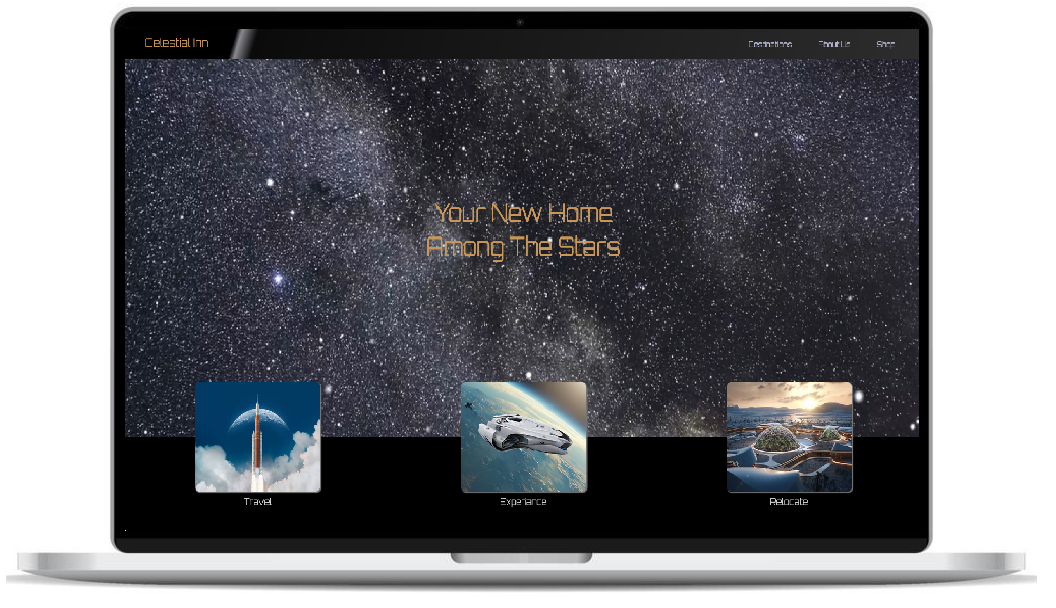
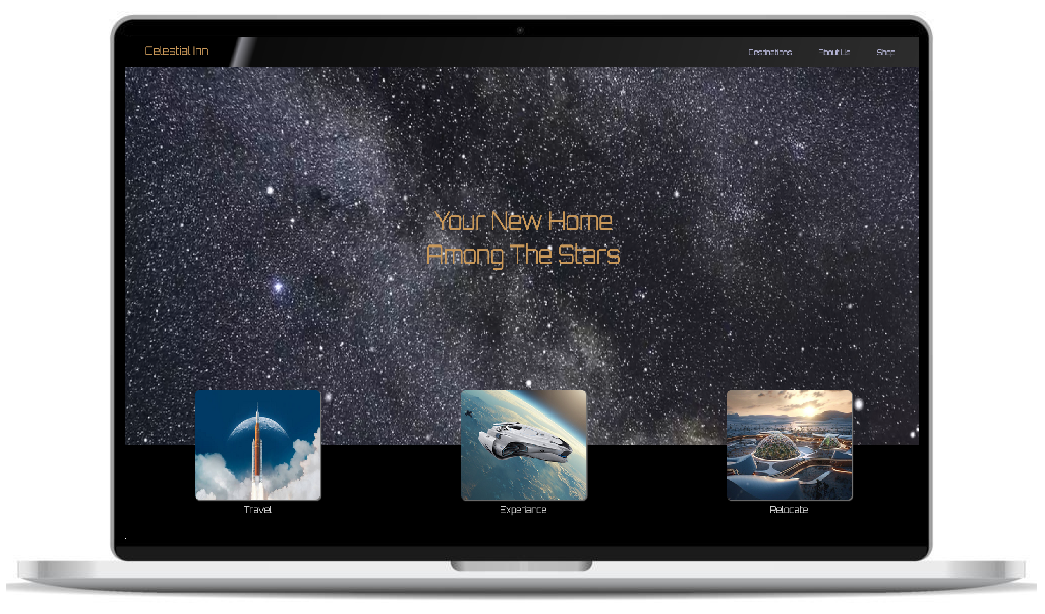
project card looks better

Changed region(s): [[0.0, 0.0, 1.0, 1.0]]

diff --git a/src/components/projectCard.css b/src/components/projectCard.css
@@ -1,11 +1,11 @@
 .app__projectCard {
   width: 400px;
-  height: 500px;
-  background-color: rgb(202, 202, 202);
+  height: 550px;
+  background-color: rgb(255, 255, 255);
   position: relative;
   border: none;
   border-radius: 7px;
-  box-shadow: 0px 0px 10px 3px rgb(95, 95, 95);
+  /* box-shadow: 0px 0px 10px 3px rgb(95, 95, 95); */
   display: flex;
   justify-content: space-between;
   text-align: center;
@@ -13,17 +13,17 @@
   color: rgb(36, 36, 36);
   transition: 0.3s ease-in-out;
 }
-.app__projectCard-constent {
+.app__projectCard:hover {
+  box-shadow: 0px 0px 10px 3px rgb(95, 95, 95);
+  transition: 0.3s ease-in-out;
+}
+.app__projectCard-content {
   display: flex;
   flex-direction: column;
   justify-content: space-between;
 }
-.app__projectCard:hover {
-  background-color: rgb(219, 219, 219);
-  transition: 0.3s ease-in-out;
-}
 
-.app__projectCard-constent_img img {
+.app__projectCard-content_img img {
   width: 400px;
   height: 210px;
   border-radius: 7px;
@@ -80,15 +80,14 @@
 }
 
 .app__projectCard-links {
-  width: 100%;
+  width: 90%;
   display: flex;
   flex-direction: row;
   align-items: center;
-  justify-content: center;
-  background-color: rgb(75, 80, 151);
+  justify-content: space-around;
+  background-color: rgb(36, 43, 128);
   border-bottom-left-radius: 7px;
   border-bottom-right-radius: 7px;
-  justify-content: space-around;
 }
 
 .app__projectCard-links_site a {

diff --git a/src/components/projectCard.jsx b/src/components/projectCard.jsx
@@ -6,8 +6,8 @@ const projectCard = ({ project }) => {
 
   return (
     <div className="app__projectCard">
-      <div className="app__projectCard-constent">
-        <div className="app__projectCard-constent_img">
+      <div className="app__projectCard-content">
+        <div className="app__projectCard-content_img">
           <img src={image} alt="project img" />
         </div>
         <div className="app__projectCard-content_name">
@@ -31,10 +31,10 @@ const projectCard = ({ project }) => {
         </div>
         <div className="app__projectCard-links">
           <div className="app__projectCard-links_site">
-            <a href={link}>Visit</a>
+            <a href={link}>See Live</a>
           </div>
           <div className="app__projectCard-links_code">
-            <a href={code}>Source</a>
+            <a href={code}>Github</a>
           </div>
         </div>
       </div>

diff --git a/src/data/fullstack.js b/src/data/fullstack.js
@@ -1,6 +1,8 @@
 import m2Pic from "../images/coding_generator.png";
-import dealPic from "../images/deal_zone.png";
+import dealPic from "../images/dealzone display.png";
 import ims from "../images/IMS.png";
+import moulin from "../images/moulin display w phone.png";
+
 const Fullstack = [
   {
     name: "DealZone",
@@ -12,12 +14,12 @@ const Fullstack = [
     id: 0,
   },
   {
-    name: "M2 Coding generator",
+    name: "Les Fleurs Du Moulin",
     description: "Quiz app using OpenAi",
-    tags: ["JavaScript", "Express.js", "MongoDb"],
-    image: m2Pic,
-    link: "https://coding-generator.adaptable.app",
-    code: "https://github.com/MaaX59/M2-coding-generator-app",
+    tags: ["Wordpress", "mySql"],
+    image: moulin,
+    link: "https://lesfleursdumoulin.com/",
+    code: "https://lesfleursdumoulin.com/",
     id: 1,
   },
   {

diff --git a/src/containers/About/About.jsx b/src/containers/About/About.jsx
@@ -1,16 +1,5 @@
 import React from "react";
-import BackgroundAnimation from "../../components/backgroundAnimation";
-import Cat from "../../images/cat2.png";
 import AboutMe from "../../images/about.jpg";
-// import html from "../../images/html.png";
-// import css from "../../images/css.png";
-// import js from "../../images/js.png";
-// import react from "../../images/react.png";
-// import node from "../../images/node2.png";
-// import tailwind from "../../images/tailwind.png";
-// import express from "../../images/Expressjs.png";
-// import mysql from "../../images/mysql.png";
-// import mongodb from "../../images/mongodb.png";
 import "./About.css";
 
 const About = () => {

diff --git a/src/containers/Fullstack/fullstack.css b/src/containers/Fullstack/fullstack.css
@@ -1,19 +1,23 @@
 .app__fullstack {
   display: flex;
-  height: 700px;
   align-items: center;
   flex-direction: column;
-  padding-bottom: 3rem;
-  background-color: rgb(255, 255, 255);
+  padding-bottom: 2rem;
+  background-color: rgb(224, 224, 224);
 }
 .app__fullstack-title {
   display: flex;
+  flex-direction: column;
+  align-items: center;
   justify-content: center;
-  color: rgb(134, 117, 38);
+  color: rgb(36, 36, 36);
+  margin-bottom: 3rem;
 }
 .app__fullstack-title h1 {
-  margin: 2rem;
+  font-family: Georgia, "Times New Roman", Times, serif;
+  margin: 5rem 0 0;
   font-size: 45px;
+  font-weight: 300;
 }
 .app__fullstack-content {
   display: flex;

diff --git a/src/containers/Frontend/frontend.css b/src/containers/Frontend/frontend.css
@@ -1,19 +1,21 @@
 .app__frontend {
   display: flex;
-  height: 700px;
   align-items: center;
   flex-direction: column;
   padding-bottom: 2rem;
-  background-color: rgb(226, 228, 253);
+  background-color: rgb(224, 224, 224);
 }
 .app__frontend-title {
   display: flex;
+  flex-direction: column;
+  align-items: center;
   justify-content: center;
-  color: rgb(134, 117, 38);
+  color: rgb(36, 36, 36);
+  margin-bottom: 3rem;
 }
 .app__frontend-title h1 {
   font-family: Georgia, "Times New Roman", Times, serif;
-  margin: 2rem;
+  margin: 2rem 0 0;
   font-size: 45px;
   font-weight: 300;
 }

diff --git a/src/containers/Fullstack/fullstack.jsx b/src/containers/Fullstack/fullstack.jsx
@@ -7,7 +7,8 @@ const Fullstack = () => {
   return (
     <div className="app__fullstack" id="fullstack">
       <div className="app__fullstack-title">
-        <h1 className="title">Fullstack</h1>
+        <h1>Fullstack</h1>
+        <h3> Here are some fullstack projects I´ve created </h3>
       </div>
       <div className="app__fullstack-content">
         {data.map((project, index) => (

diff --git a/src/data/frontend.js b/src/data/frontend.js
@@ -1,6 +1,6 @@
-import finePic from "../images/finedine.png";
-import maisonFleur from "../images/maisonfleur.png";
-import celestial from "../images/celestial-preview.jpg";
+import finePic from "../images/finedine w phone.jpg";
+import maisonFleur from "../images/fleurs w phone.png";
+import celestial from "../images/celestial display.png";
 const Frontend = [
   {
     name: "FineDine",

diff --git a/src/containers/Frontend/frontend.jsx b/src/containers/Frontend/frontend.jsx
@@ -7,7 +7,8 @@ const Frontend = () => {
   return (
     <div className="app__frontend" id="frontend">
       <div className="app__frontend-title">
-        <h1 className="title">Frontend</h1>
+        <h1>Frontend</h1>
+        <h3> Here you can find some of the Landing Pages I created recently</h3>
       </div>
 
       <div className="app__frontend-content">

diff --git a/src/containers/Contact/contact.css b/src/containers/Contact/contact.css
@@ -2,7 +2,7 @@
   display: flex;
   /* background: rgb(2, 1, 26); */
   /* background-image: linear-gradient(-25deg, rgb(0, 0, 0) 0%, rgb(0, 0, 51) 100%); */
-  background-color: rgb(226, 228, 253);
+  background-color: rgb(255, 255, 255);
   flex-direction: column;
   padding: 1rem 0;
   font-family: "Cormorant Upright";
